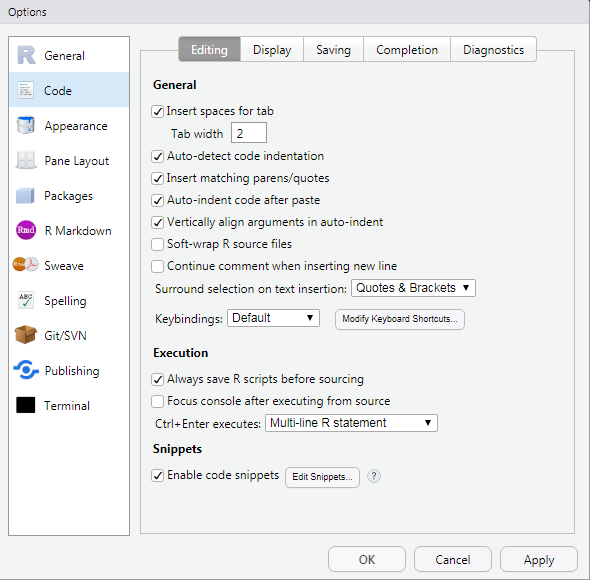
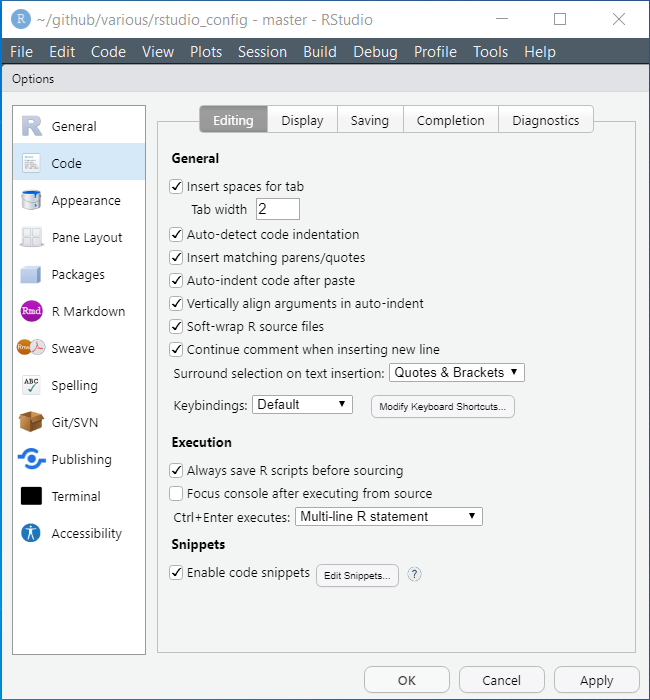
updating options

Changed region(s): [[0.0, 0.0, 1.0, 1.0], [0.6407, 0.1552, 0.9153, 0.1862], [0.5186, 0.1552, 0.6102, 0.1862]]

diff --git a/README.md b/README.md
@@ -51,7 +51,13 @@ Screenshots of my preferred RStudio configuration.
 
 ## Terminal
 
-![Terminal](img/rstudio_configuration_terminal.PNG)
+![General](img/rstudio_configuration_terminal_general.PNG)
+![Closing](img/rstudio_configuration_terminal_closing.PNG)
+
+## Accessibility
+
+![General](img/rstudio_configuration_accessibility_general.PNG)
+![Closing](img/rstudio_configuration_accessibility_announcements.PNG)
 
 ## Sources
 
